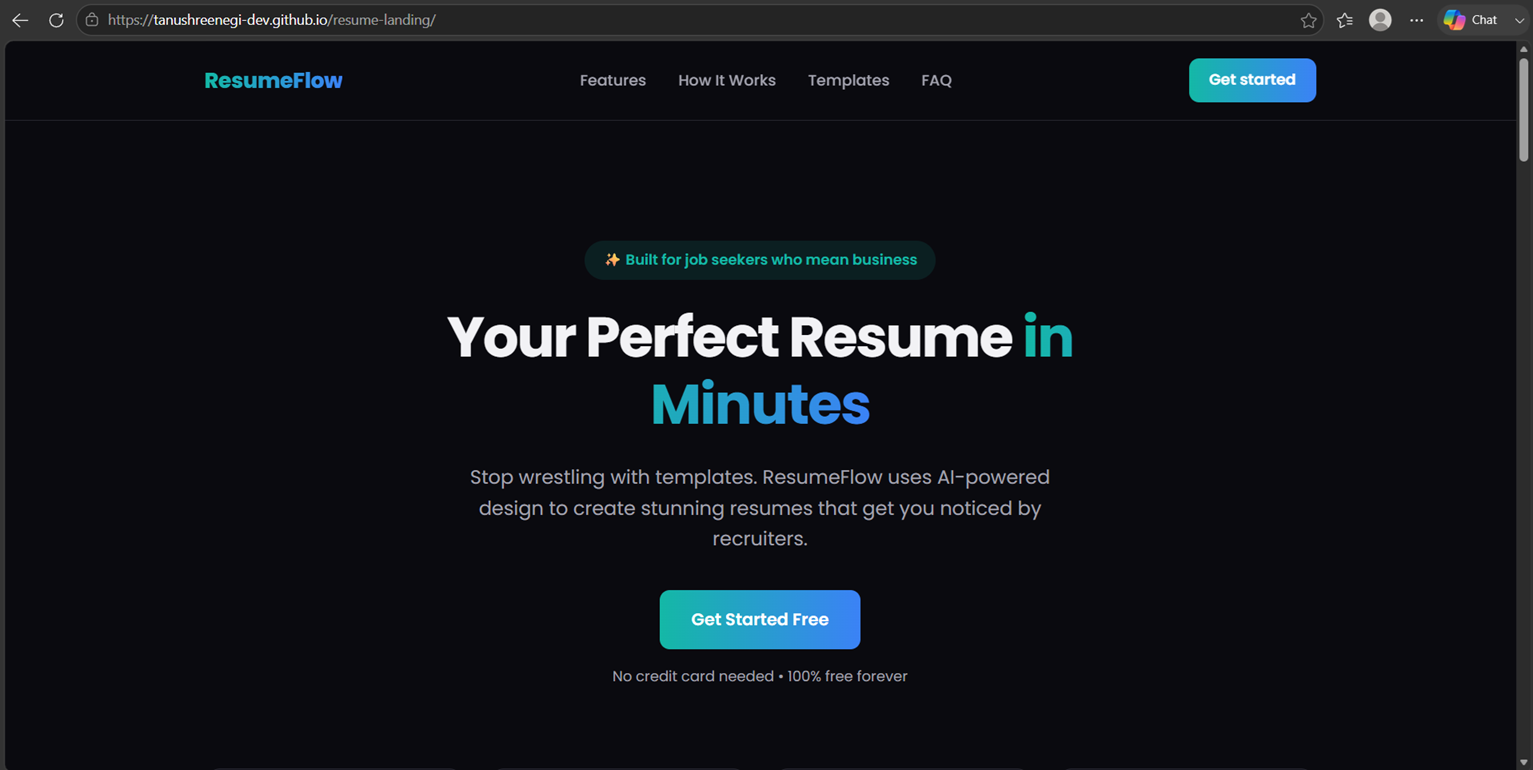
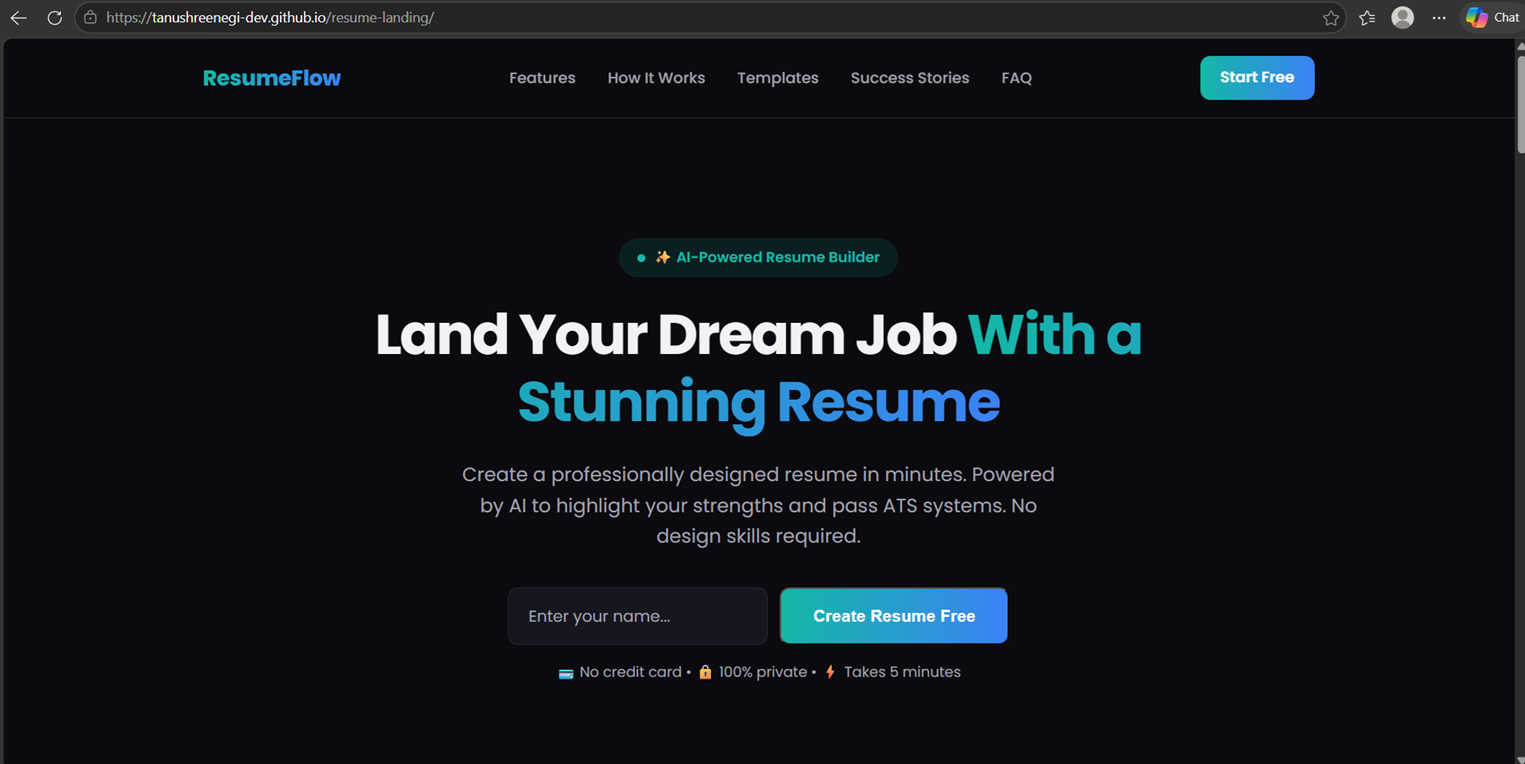
fix mobile menu

diff --git a/style.css b/style.css
@@ -147,6 +147,50 @@ h2 {
   color: var(--text);
 }
 
+.nav-toggle-input {
+  position: absolute;
+  opacity: 0;
+  pointer-events: none;
+}
+
+.nav-toggle {
+  display: none;
+  position: relative;
+  width: 28px;
+  height: 20px;
+  cursor: pointer;
+}
+
+.nav-toggle::before,
+.nav-toggle::after {
+  content: "";
+  position: absolute;
+  left: 0;
+  width: 100%;
+  height: 2px;
+  background-color: var(--text);
+  transition: transform 0.2s ease, box-shadow 0.2s ease;
+  box-shadow: 0 9px 0 0 var(--text);
+}
+
+.nav-toggle::before {
+  top: 0;
+}
+
+.nav-toggle::after {
+  bottom: 0;
+  box-shadow: none;
+}
+
+.nav-toggle-input:checked ~ .nav-toggle::before {
+  transform: translateY(9px) rotate(45deg);
+  box-shadow: 0 9px 0 0 transparent;
+}
+
+.nav-toggle-input:checked ~ .nav-toggle::after {
+  transform: translateY(-9px) rotate(-45deg);
+}
+
 .hero {
   text-align: center;
   padding-top: 120px;
@@ -708,11 +752,30 @@ blockquote {
     gap: 16px;
   }
 
+  .nav-toggle {
+    display: block;
+    order: 2;
+  }
+
+  .btn-small {
+    order: 1;
+  }
+
   .nav-links {
     order: 3;
     width: 100%;
-    justify-content: center;
+    flex-direction: column;
+    align-items: center;
     gap: 20px;
+    max-height: 0;
+    overflow: hidden;
+    margin: 0;
+    transition: max-height 0.25s ease;
+  }
+
+  .nav-toggle-input:checked ~ .nav-links {
+    max-height: 320px;
+    margin-top: 8px;
   }
 
   .hero {

diff --git a/index.html b/index.html
@@ -15,7 +15,8 @@
   <header class="site-header">
     <nav class="navbar">
       <a href="#" class="logo">ResumeFlow</a>
-      <ul class="nav-links">
+      <input type="checkbox" id="nav-toggle" class="nav-toggle-input" />
+      <ul class="nav-links" id="nav-links">
         <li><a href="#features">Features</a></li>
         <li><a href="#how-it-works">How It Works</a></li>
         <li><a href="#templates">Templates</a></li>
@@ -23,6 +24,7 @@
         <li><a href="#faq">FAQ</a></li>
       </ul>
       <a href="#" class="btn btn-primary btn-small">Start Free</a>
+      <label for="nav-toggle" class="nav-toggle" aria-label="Toggle menu"></label>
     </nav>
   </header>
 